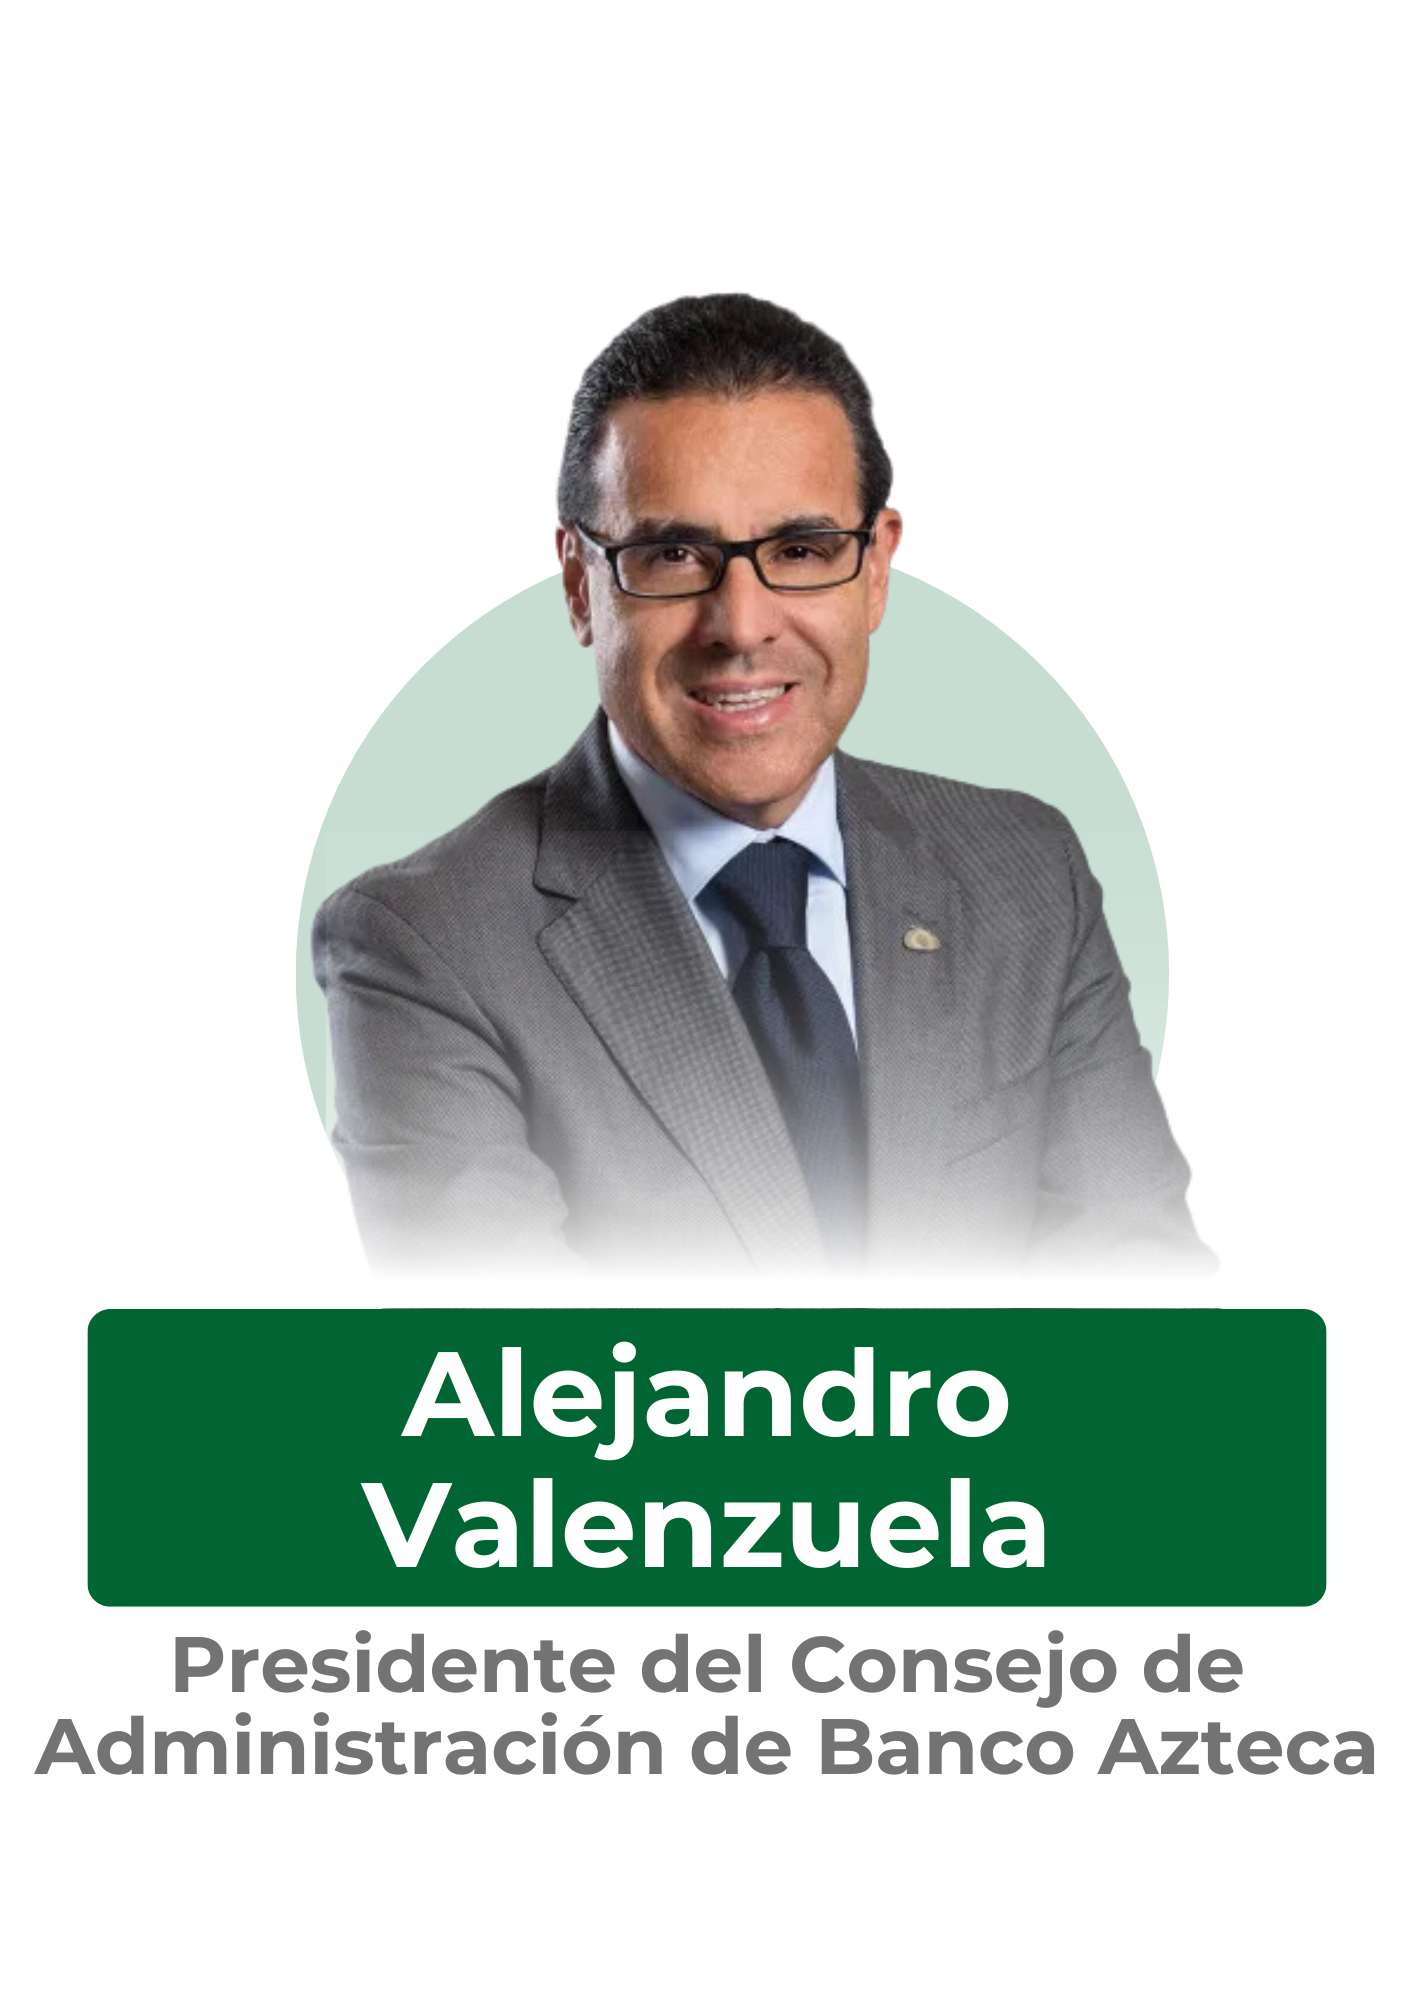
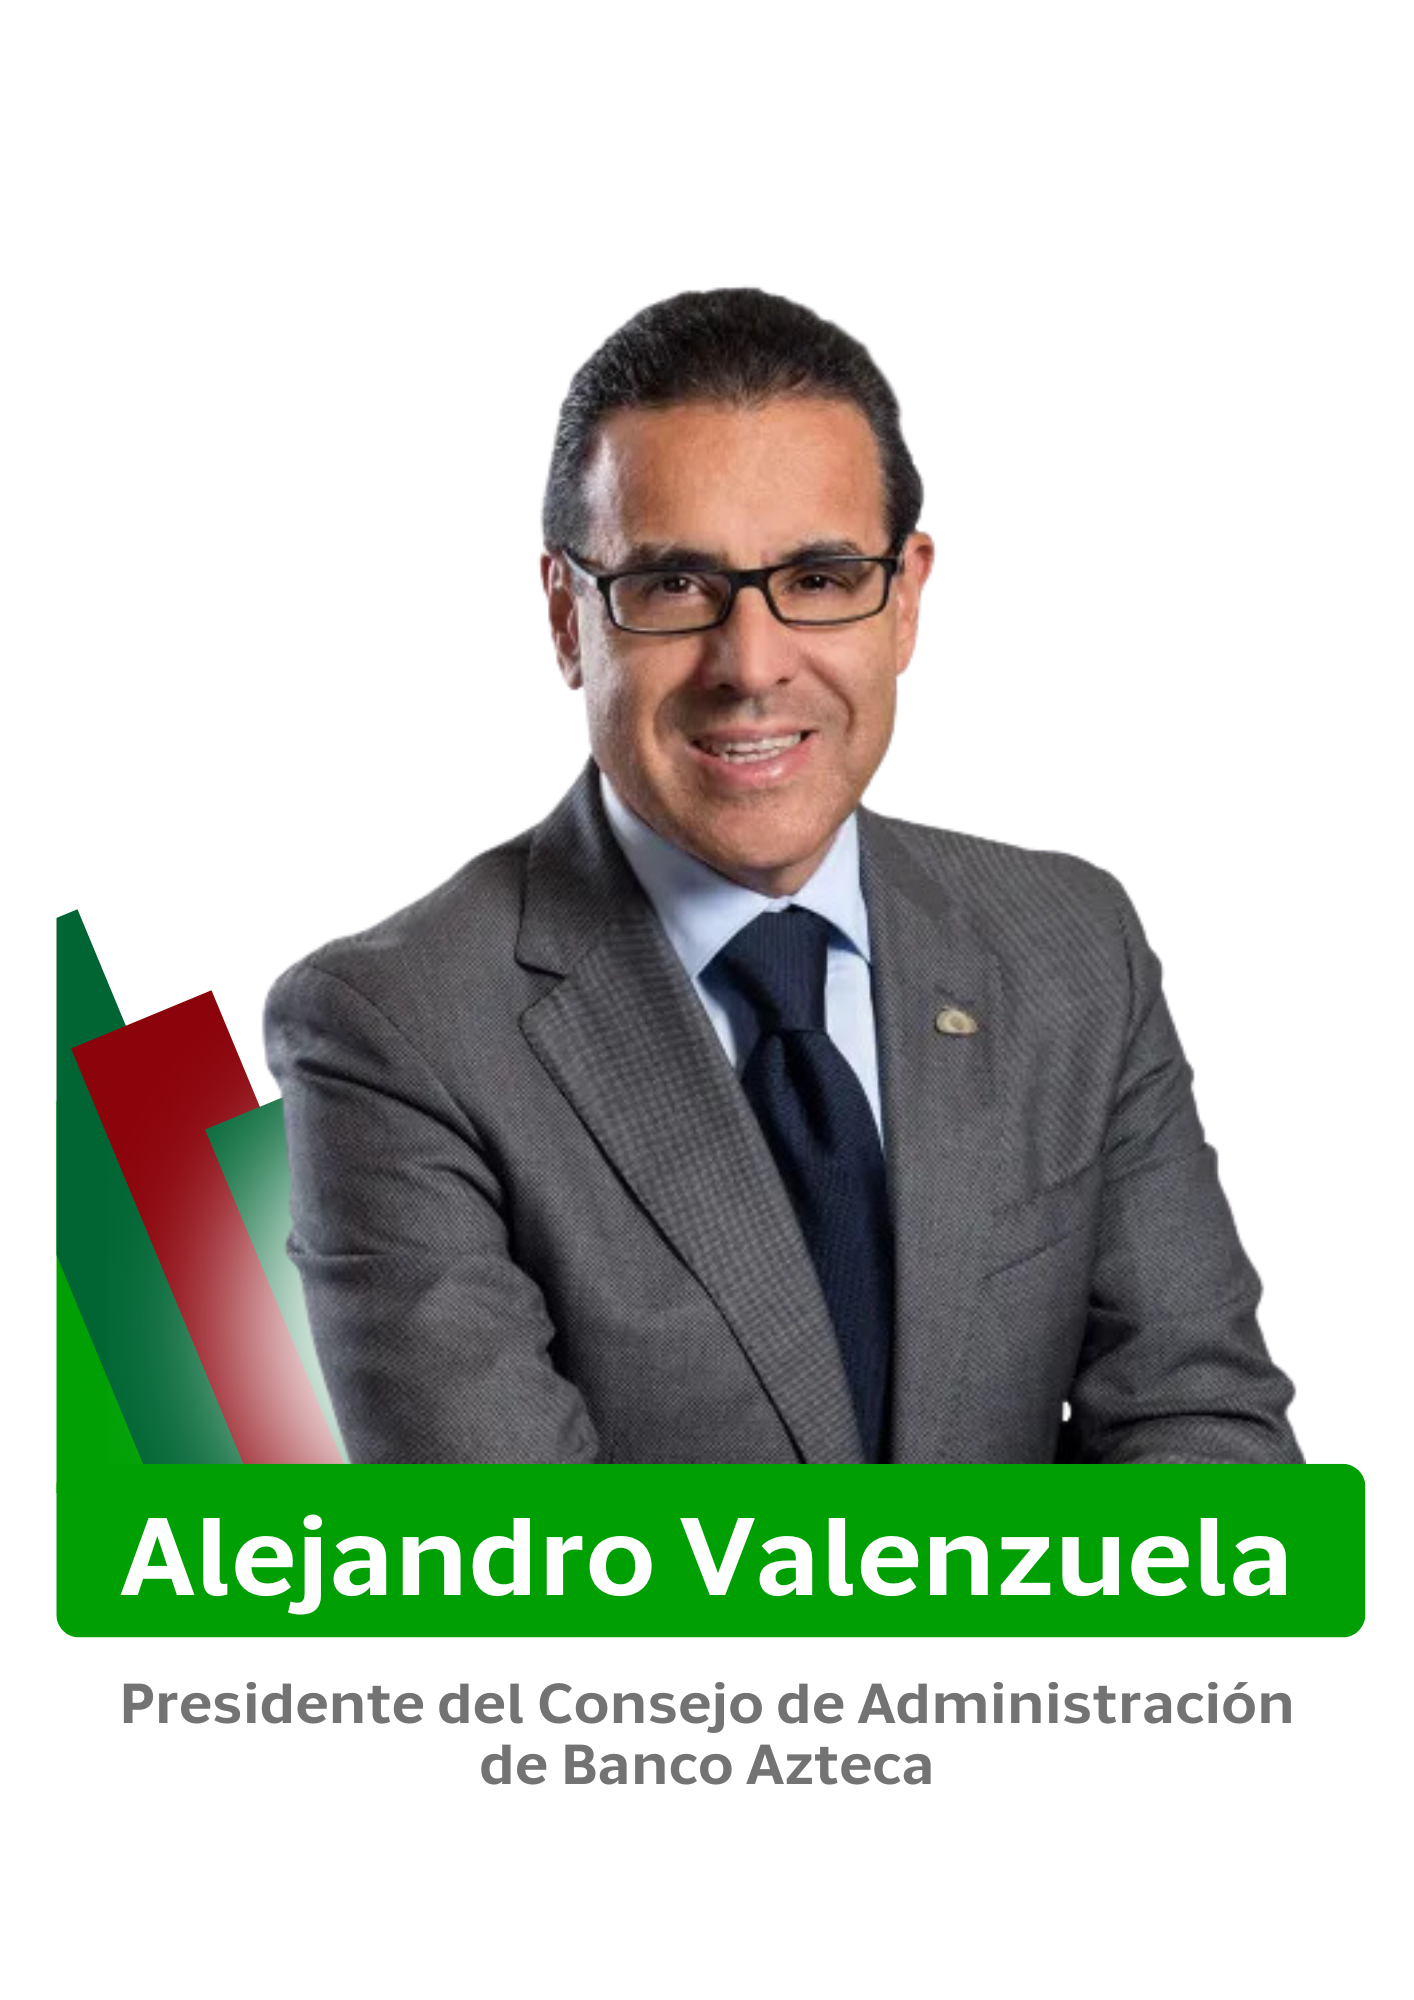
alejandro

diff --git a/src/screens/ponentes/Ponentes.tsx b/src/screens/ponentes/Ponentes.tsx
@@ -89,6 +89,16 @@ const itemData = [
     instagram: "https://www.instagram.com/",
     imgDescription: "/assets/img/ponentes/description4.png",
   },
+  {
+    id: 6,
+    img: "/assets/img/ponentes/TonatiuhRodriguez.png",
+    name: "Alejandro Valenzuela",
+    author: "Presidente del Consejo",
+    linkX: "https://twitter.com/",
+    linkLin: "https://www.linkedin.com/",
+    instagram: "https://www.instagram.com/",
+    imgDescription: "/assets/img/ponentes/description4.png",
+  },
 ];
 
 export const Ponentes = () => {
